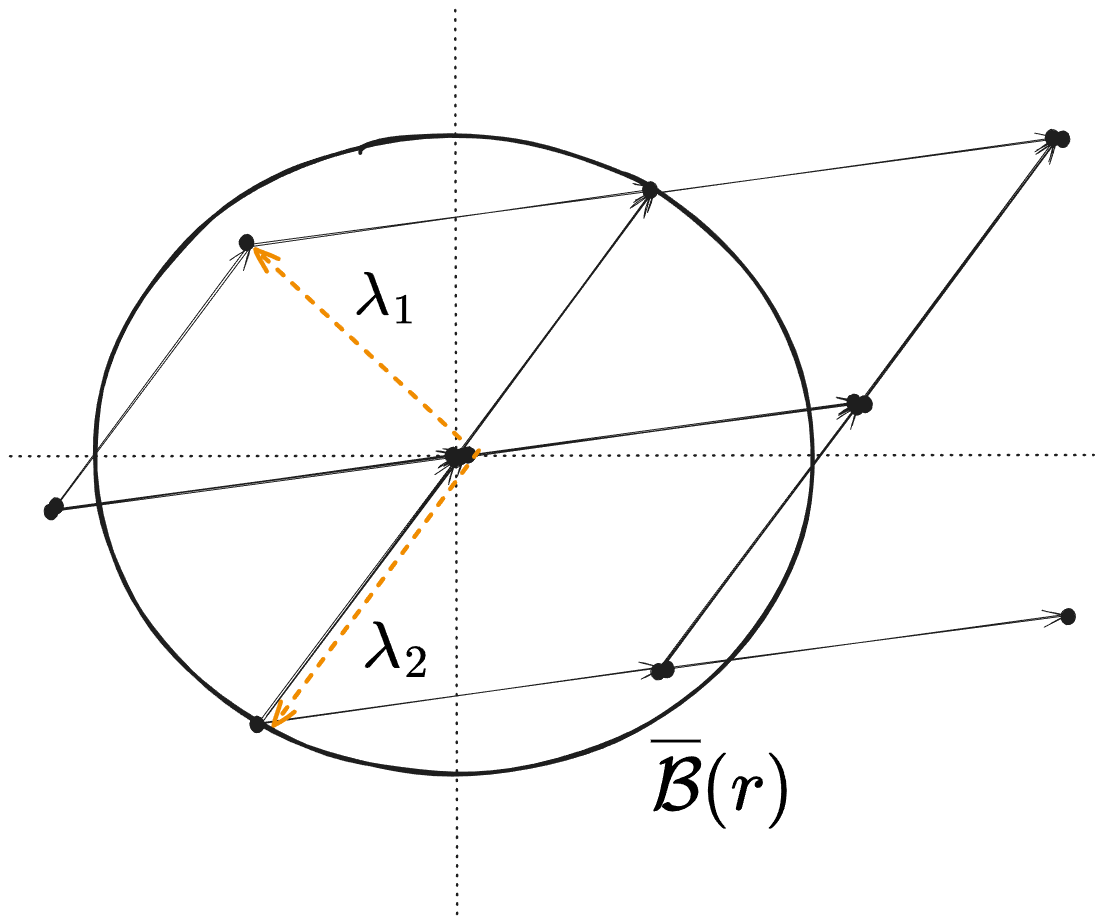
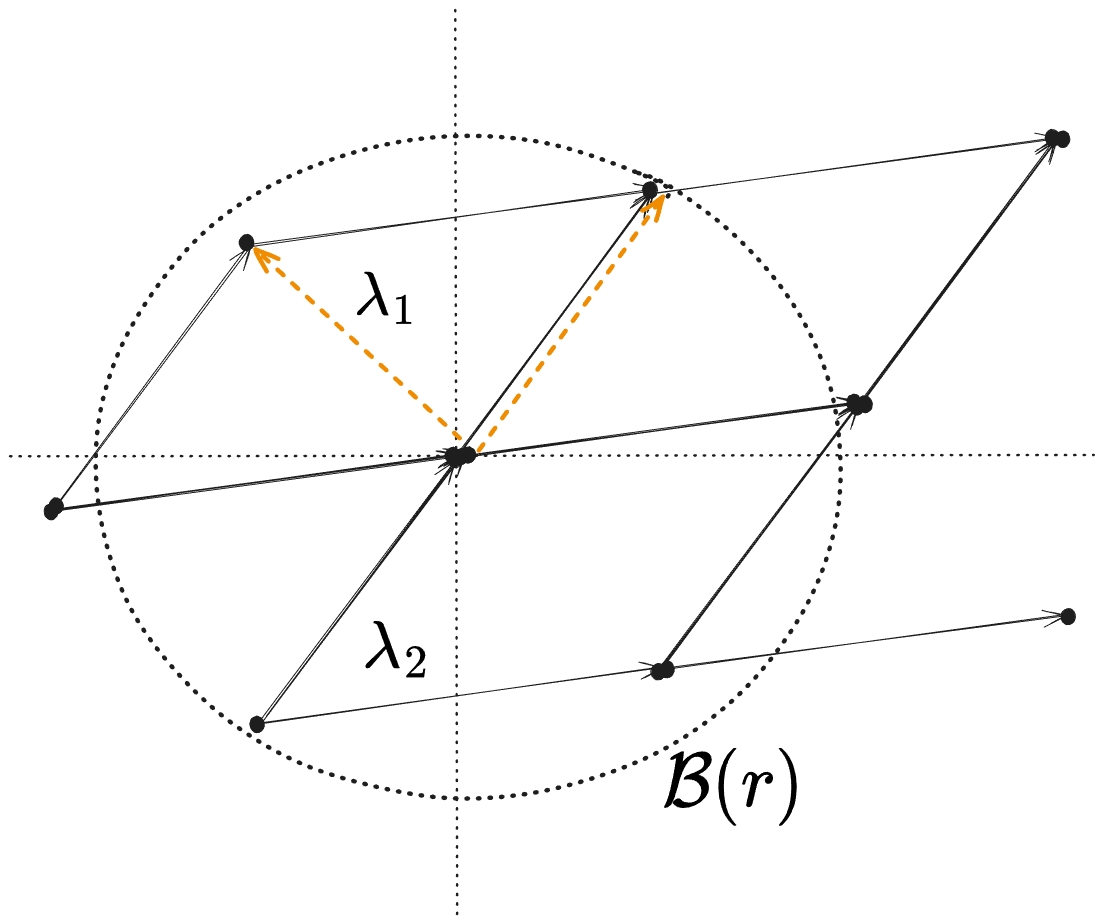
Lattices weiter

diff --git a/Lehre/Kryptologie/Diagrams/successive_minima.md b/Lehre/Kryptologie/Diagrams/successive_minima.md
@@ -14,121 +14,121 @@ b3b3aee34ca7a4d0380d73ca413a1ad11ef34790: $$\lambda_2$$
 
 de48d5e7f8a624cfb3b21cea547393baf6ff8ffb: $$\lambda_1$$
 
-69445e2d296aa8a5bf905fd81826d2b0bbd86743: $$\overline{\mathcal{B}}(r)$$
+eb4cd71a1d03a0266c70b1b34b69b277592d1a3b: $$\mathcal{B}(r)$$
 
 %%
 ## Drawing
 ```compressed-json
[2 lines of base64/hex data omitted]
 
[2 lines of base64/hex data omitted]
 
[2 lines of base64/hex data omitted]
 
[2 lines of base64/hex data omitted]
 
[2 lines of base64/hex data omitted]
 
[2 lines of base64/hex data omitted]
 
[2 lines of base64/hex data omitted]
 
[2 lines of base64/hex data omitted]
 
[2 lines of base64/hex data omitted]
 
[2 lines of base64/hex data omitted]
 
[2 lines of base64/hex data omitted]
 
[2 lines of base64/hex data omitted]
 
[2 lines of base64/hex data omitted]
 
[2 lines of base64/hex data omitted]
 
[2 lines of base64/hex data omitted]
 
[2 lines of base64/hex data omitted]
 
[2 lines of base64/hex data omitted]
 
[2 lines of base64/hex data omitted]
 
[2 lines of base64/hex data omitted]
 
[2 lines of base64/hex data omitted]
 
[2 lines of base64/hex data omitted]
 
[2 lines of base64/hex data omitted]
 
[2 lines of base64/hex data omitted]
 
[2 lines of base64/hex data omitted]
 
[2 lines of base64/hex data omitted]
 
[2 lines of base64/hex data omitted]
 
[2 lines of base64/hex data omitted]
 
[2 lines of base64/hex data omitted]
 
[2 lines of base64/hex data omitted]
 
[2 lines of base64/hex data omitted]
 
[2 lines of base64/hex data omitted]
 
[2 lines of base64/hex data omitted]
 
[2 lines of base64/hex data omitted]
 
[2 lines of base64/hex data omitted]
 
[2 lines of base64/hex data omitted]
 
[2 lines of base64/hex data omitted]
 
[2 lines of base64/hex data omitted]
 
[2 lines of base64/hex data omitted]
 
[2 lines of base64/hex data omitted]
 
[2 lines of base64/hex data omitted]
 
[2 lines of base64/hex data omitted]
 
[2 lines of base64/hex data omitted]
 
[2 lines of base64/hex data omitted]
 
[2 lines of base64/hex data omitted]
 
[2 lines of base64/hex data omitted]
 
[2 lines of base64/hex data omitted]
 
[2 lines of base64/hex data omitted]
 
[2 lines of base64/hex data omitted]
 
[2 lines of base64/hex data omitted]
 
[2 lines of base64/hex data omitted]
 
[2 lines of base64/hex data omitted]
 
[2 lines of base64/hex data omitted]
 
[2 lines of base64/hex data omitted]
 
[2 lines of base64/hex data omitted]
 
[2 lines of base64/hex data omitted]
 
[2 lines of base64/hex data omitted]
 ```
 %%

diff --git a/Computer Science/neovim/vanilla.md b/Computer Science/neovim/vanilla.md
@@ -23,13 +23,13 @@ There are 4 modes
 |                                  | `esc` + `:vsp`      |
 | Split Horizontally               | `esc` + `:hsplit`   |
 |                                  | `esc` + `:hsp`      |
-| Toggle Windows (Splits)          | `<C> + w + h/j/k/l` | 
-| Open Terminal                    | :term               |
-| To leave terminal                | `ctl+alt+\`         |
-| N - resize by +N/-N horizontally | :res +/             |
-| resize by +N/-N vertically       | :res vert +/        |
-| resize to N horizontally         | :res N              |
-| resize to N vertically           | :res vert N         |
+| Toggle Windows (Splits)          | `<C> + w + h/j/k/l` |
+| Open Terminal                    | `:term`             |
+| To leave terminal                | `ctl+alt+\`         | 
+| N - resize by +N/-N horizontally | `:res +/`           |
+| resize by +N/-N vertically       | `:res vert +/`      |
+| resize to N horizontally         | `:res N`            |
+| resize to N vertically           | `:res vert N`       |
 
 
 
@@ -63,7 +63,6 @@ There are 4 modes
 |                         | Command                  |
 | ----------------------- | ------------------------ |
 | Move Left/Down/Up/Right | `h`/`j`/`k`/`l`          |
-| ----------------------- | ------------------------ |
 | Next Word               | `w`                      |
 | Delete Word             | `wd`                     |
 | jump `n` parts          | `$NUM` + `h`/`j`/`k`/`l` |
@@ -96,11 +95,11 @@ There are 4 modes
 | Go up by Paragraph                  | `{`       |
 | Go down by Paragraph                | `}`       |
 | Jump Half Page Up                   | `ctl + d` |
-| Jump Half Page Down                 | `ctl + u` |
+| Jump Half Page Down                 | `ctl + u` | 
 | Go all the Way Down                 | `G`       |
 | Go all the Way Up                   | `gg`      |
 | Go to line 50                       | `:50`     |
-| Go down to end of paragraph         | `{`       | 
+| Go down to end of paragraph         | `{`       |
 | Go up to the beginning of paragraph | `}`       |
 | Jump half page down                 | `<C-d>`   |
 | Jump half page up                   | `<C-u>`   |
@@ -110,7 +109,7 @@ There are 4 modes
 | ------------------------------------------ | ------- |
 | index all commands                         | `:h`    |
 | place cursor on variable and refactor it   | `grn`   |
-| search for string VAR                      | `/VAR`  | 
+| search for string VAR                      | `/VAR`  |
 | in search after enter you can go next      | `n`     |
 | " - " you can go previous                  | `N`     |
 | search backwards for VAR                   | `/VAR?` |
@@ -118,20 +117,20 @@ There are 4 modes
 | search for word under the cursor backwards | `#`     |
 
 ## Plugin-Related:
-|                                                                                                                                                        | command     |
-| ------------------------------------------------------------------------------------------------------------------------------------------------------ | ----------- |
-| when installing new packages into venv while being in vim, hot reload the Language server, such that it loads the new packages into the autocompletion | :LspRestart |
-| when installing new plugins while in vim or wanting to update plugins                                                                                  | :Lazy sync  |
-| open telescope in the current working directory                                                                                                        | <leader> ff |
-| open telescope for searching over opened buffers                                                                                                       | <leader> fb |
+|                                                                                                                                                        | command       |
+| ------------------------------------------------------------------------------------------------------------------------------------------------------ | ------------- |
+| when installing new packages into venv while being in vim, hot reload the Language server, such that it loads the new packages into the autocompletion | `:LspRestart` |
+| when installing new plugins while in vim or wanting to update plugins                                                                                  | `:Lazy sync`  |
+| open telescope in the current working directory                                                                                                        | `<leader> ff` |
+| open telescope for searching over opened buffers                                                                                                       | `<leader> fb` |
 
 ## Buffer-related:
 
-|                   | command |
-| ----------------- | ------- |
-| create new buffer | `:enew` |
-| delete current buffer | `:bd` | 
-| delete all buffers | `:%bd` |
+|                       | command |
+| --------------------- | ------- |
+| create new buffer     | `:enew` |
+| delete current buffer | `:bd`   |
+| delete all buffers    | `:%bd`  |
 
 ## Macros
 

diff --git a/Lehre/Kryptologie/13 - Mathematische Grundlagen (3).md b/Lehre/Kryptologie/13 - Mathematische Grundlagen (3).md
@@ -163,18 +163,14 @@ tags: []
 
 ### 13.3 Sukzessive Minima
 
->[!def] Definition Minimale Distanz $\lambda_1$ eines Gitters $\mathcal{L}$
-> Die minimale Distanz eines Gitters $\mathcal{L}$ wird bezeichnet als
-> $$\lambda_1(\mathcal{L}) := \min_{\boldsymbol{v} \in \mathcal{L} \setminus\{\boldsymbol{0}\}} ||\boldsymbol{v}||_E$$
-> wobei $||\boldsymbol{v}||_E$ ist die Norm von $\boldsymbol{v}$ und wir berechnen diese als
-> $$||\boldsymbol{v}||_E = \sqrt{\sum_{i} v_i^2}$$
-
 >[!def] Definition Sukzessive Minimale Distanz $\lambda_i$ eines Gitters $\mathcal{L}$
-> Sei $\overline{\mathcal{B}}(r) = \{ \boldsymbol{x} \in \mathbb{R}^n \; | \; ||\boldsymbol{x}|| \leq r \}$ der geschlossene Ball mit Zentrum $0$. Die $i$-te sukzessive minimale Distanz eines Gitters $\mathcal{L}$ ist definiert als
-> $$ \lambda_i(\mathcal{L}) := \min \{r \; | \; \dim(\text{span}(\mathcal{L} \cap \overline{\mathcal{B}}(r))) \geq i\} $$
+> Sei $\mathcal{B}(r) = \{ \boldsymbol{x} \in \mathbb{R}^n \; | \; ||\boldsymbol{x}|| < r \}$ der offene Ball mit Zentrum $0$. Die $i$-te sukzessive minimale Distanz eines Gitters $\mathcal{L}$ ist definiert als
+> $$ \lambda_i(\mathcal{L}) := \inf \{r \; | \; \dim(\text{span}(\mathcal{L} \cap \mathcal{B}(r))) \geq i\} $$
 
 >[!remark] Bemerkung zur Definition
 > Diese Definition mag etwas kompliziert aussehen. Zunächst beschreibt die Definition die Länge des $i$-ten kürzesten Vektors aus einer Menge von $i$ linear unabhängigen, kürzesten Vektoren im Gitter. Im Kern der Definition spannen wir einen Vektorraum über einen Schnitt zwischen einem offenen Ball und dem Gitter auf. Der $\dim$ Operator verrät uns wieviele linear unabhängige Vektoren in dem aufgespannten Schnitt zu finden ist. Wir geben das kleinste $r$ zurück, was uns mindestens $i$ linear unabhängige Vektoren liefert. Es ist zu bemerken, dass es ein höchstes $\lambda_i$ als $\lambda_n$ gibt, da ein Gitter vollen Ranges niemals mehr als $n$ linear unabhängige Vektoren haben kann.
+>
+> Auch bedenkt, dass das **Infimum** sagt, dass wir das **größte Element** suchen, was die Relation erfüllt. Dieses muss laut Definition des **Infimums** nicht zwangsläufig in der Menge selbst liegen.
 >![[Figures/successive_minima.png|center|500]]
 
 >[!remark] Bemerkung zur Bedeutung
@@ -217,16 +213,34 @@ tags: []
 >>|\langle \boldsymbol{Bx}, \boldsymbol{b}_i^* \rangle| = ||\boldsymbol{b}_i^*||^2 \cdot |x_i| \geq ||\boldsymbol{b}_i^*||^2 \tag*{$\square$}
 >> \end{align}$$
 
->[!theorem] Satz Existenz des Gittevektors zur minimalen Distanz
-> Sei $\lambda_1$ die minimale Distanz des Gitters $\mathcal{L}$, Dann existiert ein $\boldsymbol{x} \in \mathcal{L}$ sodass $||\boldsymbol{x}|| = \lambda_1$.
+
+>[!remark]
+> Wir haben nun gezeigt, dass die minimale Distanz $\lambda_1$ in einem Gitter und der entsprechende Vektor dazu existiert. Dies lässt sich entsprechen auf jede beliebige sukzessive Distanz $\lambda_i$ erweitern.
 
 
 
 
 
+
+>[!def] Definition Minimale Distanz $\lambda_1$ eines Gitters $\mathcal{L}$
+> Die minimale Distanz eines Gitters $\mathcal{L}$ wird bezeichnet als
+> $$\lambda_1(\mathcal{L}) := \min_{\boldsymbol{v} \in \mathcal{L} \setminus\{\boldsymbol{0}\}} ||\boldsymbol{v}||_E$$
+> wobei $||\boldsymbol{v}||_E$ ist die Norm von $\boldsymbol{v}$ und wir berechnen diese als
+> $$||\boldsymbol{v}||_E = \sqrt{\sum_{i} v_i^2}$$
 
 
 
 >[!def] Definition Module über Restklassen
 > Seien $n,q \in \mathbb{N}$, dann nennen wir $$\mathbb{Z}_q{^n} = \{\boldsymbol{a} \text{ mod } q \; | \; \boldsymbol{a} \in \mathbb{Z}^n\}$$ den **Vektorraum über Restklassen**. Wobei wir definieren
 > $$\boldsymbol{a} \text{ mod } q = \begin{pmatrix} a_1 \text{ mod } q \\ \vdots \\ a_n \text{ mod } q \end{pmatrix}$$
+
+
+$\boldsymbol{x} \in \mathbb{R}^n$
+
+$$\begin{pmatrix} 1\\ 2 \\ 3 \end{pmatrix} = \boldsymbol{x}$$
+
+# Heading like this
+
+## Subheading like this
+
+Hi this is some text, you can read me $x = 5$ is some math notation, but I can also do programming with `x = 5`
